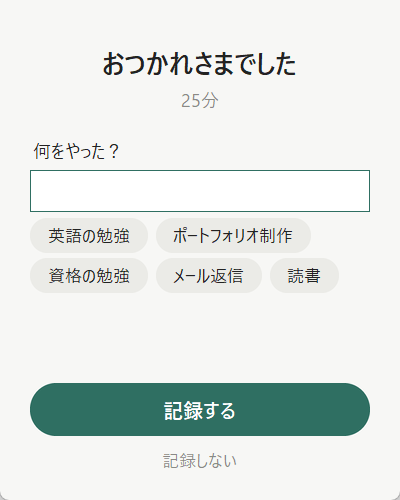
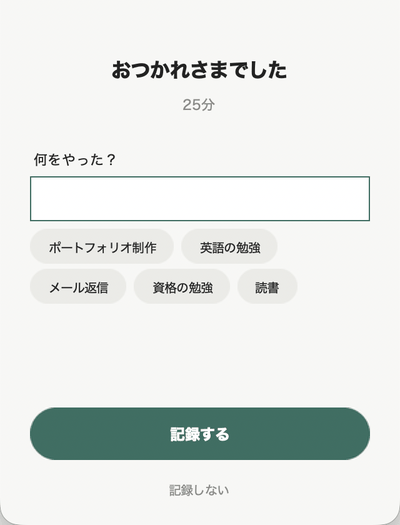
README のスクリーンショットを、今の画面で撮り直す
README の画像は v1.4.0 のころに学校の Windows PC で撮ったもので、振り返りの「すべての記録を見る・直す」や
設定の「不具合を報告する」など、今の画面と違っていた。設定の画像には、その PC の一時フォルダの場所も写っていた。
サンプルの記録を一時フォルダに作って各画面を撮る tools/readme_screenshots.py を作り、Mac で撮り直した
（今後も同じ条件で撮り直せるように）。README の表で大きくなりすぎないよう、これまでと同じ大きさにし、
256色にしてファイルを小さくした。週次レポートのメールの画像は、アプリの画面ではないのでそのまま。

diff --git a/tools/readme_screenshots.py b/tools/readme_screenshots.py
@@ -1,0 +1,173 @@
+"""README 用のスクリーンショット（docs/*.png）を、サンプルの記録で撮り直す
+
+本物の記録・設定には触れず、一時フォルダにサンプルの記録を作って各画面を表示し、ウィンドウの中身を撮る。
+画面を変えたあと、README の画像を同じ条件でそろえて撮り直すために使う（週次レポートのメールの画像は対象外）。
+
+    python tools/readme_screenshots.py            # docs/ に保存する
+    python tools/readme_screenshots.py 保存先      # 確かめたいときは、別のフォルダに保存する
+
+Mac では、ターミナル（または Python）に「画面収録」の許可が要る。撮っている間は、ほかのウィンドウを重ねない。
+"""
+
+from collections.abc import Callable
+from datetime import datetime, timedelta
+import os
+from pathlib import Path
+import random
+import subprocess
+import sys
+import tempfile
+import tkinter as tk
+
+PROJECT_DIR = Path(__file__).resolve().parent.parent
+sys.path.insert(0, str(PROJECT_DIR))
+
+from PIL import Image, ImageGrab  # noqa: E402
+
+from justdoit import config, records, updates  # noqa: E402
+
+TASKS = ["ポートフォリオ制作", "資格の勉強", "英語の勉強", "メール返信", "読書"]
+WEEKLY_GOAL_MINUTES = 5 * 60
+TIMER_REMAINING_SECONDS = 15 * 60 + 39  # タイマーの画面で止めておく残り時間（15:39）
+SETTLE_MS = 700  # 画面を出してから撮るまで待つ時間
+# 保存する画像の倍率（画面の大きさに対して）。Mac は2倍で撮れるが、README の表で大きくなりすぎないよう縮める
+OUTPUT_SCALE = 1.25
+
+
+def write_sample_records(csv_path: Path, today: datetime) -> None:
+    """約50日分のサンプルの記録（今日まで13日連続・今日は50分）。毎回同じ記録になるよう、乱数の種を決めておく"""
+    rng = random.Random(7)
+    for days_ago in range(50, -1, -1):
+        day = today - timedelta(days=days_ago)
+        if days_ago == 0:
+            entries = [(10, "英語の勉強", 25), (14, "ポートフォリオ制作", 25)]
+        elif days_ago == 13 or (days_ago > 13 and rng.random() < 0.15):
+            continue  # 記録しなかった日（今日までの連続を13日にする）
+        else:
+            hours = sorted(rng.sample(range(9, 21), rng.randint(2, 5)))
+            entries = [(hour, rng.choice(TASKS), rng.choice([5, 15, 25, 25, 25, 30, 50])) for hour in hours]
+        for hour, task, minutes in entries:
+            when = day.replace(hour=hour, minute=rng.randint(0, 59), second=0, microsecond=0)
+            records.append_record_to_csv(csv_path, when.strftime(records.DATETIME_FORMAT), task, minutes)
+
+
+class FrozenClock(datetime):
+    """タイマーの画面を、残り時間を止めた状態で撮るための時計
+
+    最初に聞かれた時刻（タイマーの開始）から、それ以降はずっと TIMER_REMAINING_SECONDS が残る時刻を返す。
+    """
+
+    started: datetime | None = None
+
+    @classmethod
+    def now(cls, tz=None):
+        if cls.started is None:
+            cls.started = datetime.now()
+            return cls.started
+        return cls.started + timedelta(seconds=25 * 60 - TIMER_REMAINING_SECONDS)
+
+
+def find_widgets(widget: tk.Misc, kind: type) -> list:
+    found = [widget] if isinstance(widget, kind) else []
+    for child in widget.winfo_children():
+        found.extend(find_widgets(child, kind))
+    return found
+
+
+def main(out_dir: Path) -> None:
+    out_dir.mkdir(parents=True, exist_ok=True)
+    tmp = Path(tempfile.mkdtemp())
+    config.get_data_dir = lambda: tmp
+    updates.check_for_update = lambda: None
+    write_sample_records(config.get_csv_path(), datetime.now())
+    config.save_preferences(config.Preferences(weekly_goal_minutes=WEEKLY_GOAL_MINUTES, appearance="light"))
+
+    from justdoit.ui import app as app_module
+    from justdoit.ui import dashboard, history, settings, timer
+    from justdoit.ui.datepicker import DatePicker
+
+    root = tk.Tk()
+    app = app_module.JustDoItApp(root)
+    # ほかのウィンドウに隠れていると、その上から撮ってしまうので、いちばん前に出しておく
+    root.attributes("-topmost", True)
+    if sys.platform == "darwin":
+        script = 'tell application "System Events" to set frontmost of (first process whose unix id is {}) to true'
+        subprocess.run(["osascript", "-e", script.format(os.getpid())], capture_output=True)
+    root.focus_force()
+
+    def set_appearance(appearance: str) -> None:
+        config.save_preferences(config.Preferences(weekly_goal_minutes=WEEKLY_GOAL_MINUTES, appearance=appearance))
+
+    def show_timer(appearance: str) -> Callable[[], None]:
+        def show() -> None:
+            set_appearance(appearance)
+            FrozenClock.started = None
+            timer.datetime = FrozenClock  # type: ignore[misc]
+            timer.show_focus_timer(app, 25 * 60)
+
+        return show
+
+    def show_history() -> None:
+        history.show_history(app, back=app.show_main_menu)
+        root.update()
+        table = find_widgets(root, history.ttk.Treeview)[0]
+        table.selection_set(table.get_children()[1])
+        table.event_generate("<<TreeviewSelect>>")
+
+    def show_calendar() -> None:
+        timer.show_manual_record(app)
+        root.update()
+        find_widgets(root, tk.Entry)[0].insert(0, "読書")
+        find_widgets(root, DatePicker)[0].open()
+
+    def show_settings() -> None:
+        settings.show_settings(app, "timer")
+        root.update()
+        # 保存先は、一時フォルダではなく、配布版を使ったときの場所を見せる
+        for label in find_widgets(root, tk.Label):
+            if str(label.cget("text")).startswith("保存先:"):
+                label.config(text="保存先: ~/Library/Application Support/JustDoIt")
+
+    shots: list[tuple[str, Callable[[], None]]] = [
+        ("menu", app.show_main_menu),
+        ("timer", show_timer("light")),
+        ("dashboard", lambda: dashboard.show_dashboard(app, "week")),
+        ("record", lambda: timer.show_record_form(app, 25, after_save=app.show_main_menu)),
+        ("history", show_history),
+        ("calendar", show_calendar),
+        ("settings", show_settings),
+        ("dark", show_timer("dark")),
+    ]
+
+    def take(index: int) -> None:
+        if index == len(shots):
+            app.close_guard = None
+            root.destroy()
+            return
+        name, show = shots[index]
+        timer.datetime = datetime  # type: ignore[misc]
+        set_appearance("light")
+        show()
+
+        def grab() -> None:
+            root.update()
+            x, y = root.winfo_rootx(), root.winfo_rooty()
+            width, height = root.winfo_width(), root.winfo_height()
+            image = ImageGrab.grab(bbox=(x, y, x + width, y + height))
+            size = (round(width * OUTPUT_SCALE), round(height * OUTPUT_SCALE))
+            path = out_dir / f"{name}.png"
+            image = image.convert("RGB").resize(size, Image.Resampling.LANCZOS)
+            # 画面の色は少ないので、256色にしてファイルを小さくする（見た目はほぼ変わらない）
+            image = image.quantize(colors=256, method=Image.Quantize.MEDIANCUT, dither=Image.Dither.NONE)
+            image.save(path, optimize=True)
+            print(f"{path}（{size[0]}x{size[1]}）")
+            take(index + 1)
+
+        root.after(SETTLE_MS, grab)
+
+    root.after(SETTLE_MS, lambda: take(0))
+    root.mainloop()
+
+
+if __name__ == "__main__":
+    main(Path(sys.argv[1]) if len(sys.argv) > 1 else PROJECT_DIR / "docs")

diff --git a/README.md b/README.md
@@ -221,8 +221,10 @@ just-do-it/
 │   └── ui/                    # 画面（app・theme・datepicker・timer・history・dashboard・settings・report_settings）
 ├── gas/report_service/        # 週次レポート配信サービス（Google Apps Script）
 ├── tests/                     # 単体テスト
-├── tools/release_notes.py     # CHANGELOG.md からリリースノートを作る（リリース時に Actions が実行）
-├── docs/                      # README 用スクリーンショット（サンプルの記録で撮影）
+├── tools/
+│   ├── release_notes.py       # CHANGELOG.md からリリースノートを作る（リリース時に Actions が実行）
+│   └── readme_screenshots.py  # README 用スクリーンショットを、サンプルの記録で撮り直す
+├── docs/                      # README 用スクリーンショット（tools/readme_screenshots.py がサンプルの記録で撮る）
 ├── JustDoIt.spec              # ビルド設定
 ├── CLAUDE.md                  # Claude Code で開発するときの決まりごと
 └── .github/                   # GitHub Actions（workflows/）、不具合の報告フォーム（ISSUE_TEMPLATE/）
